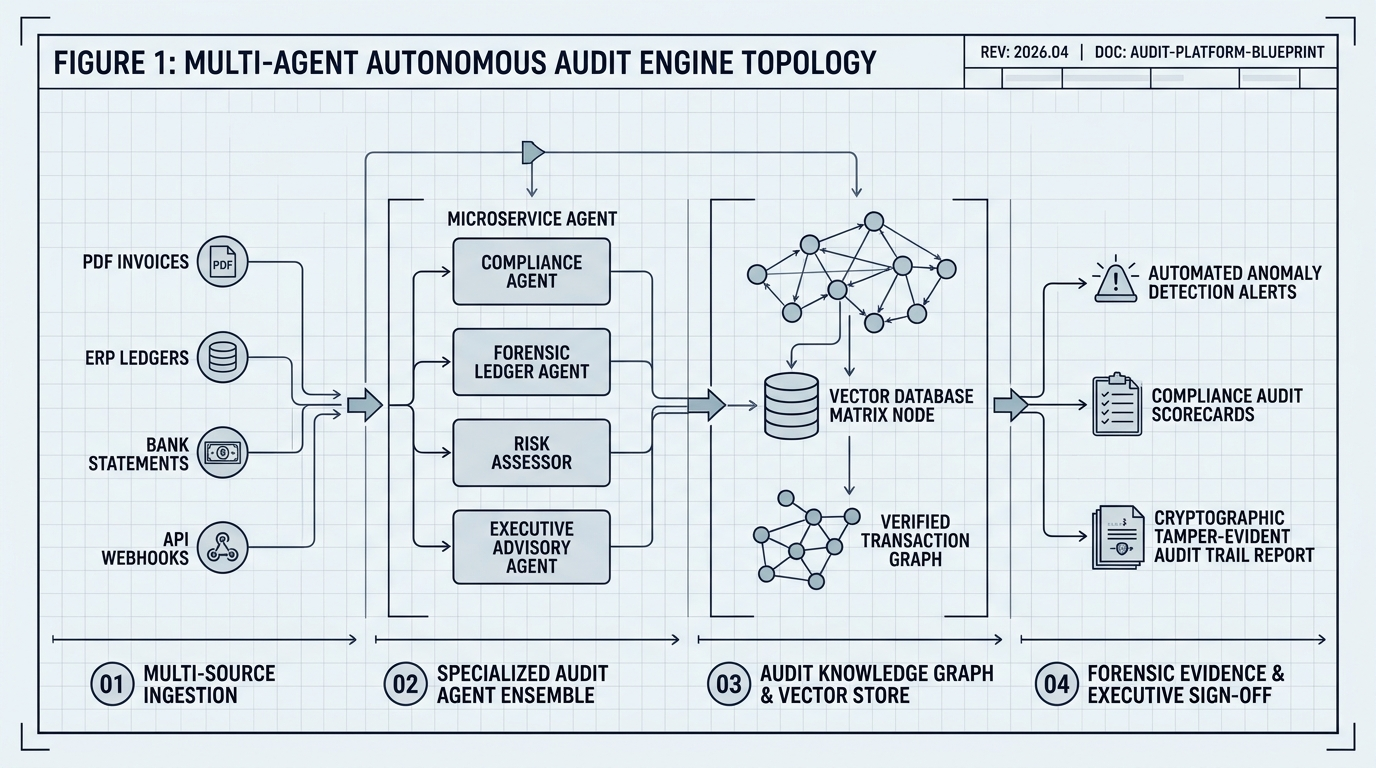
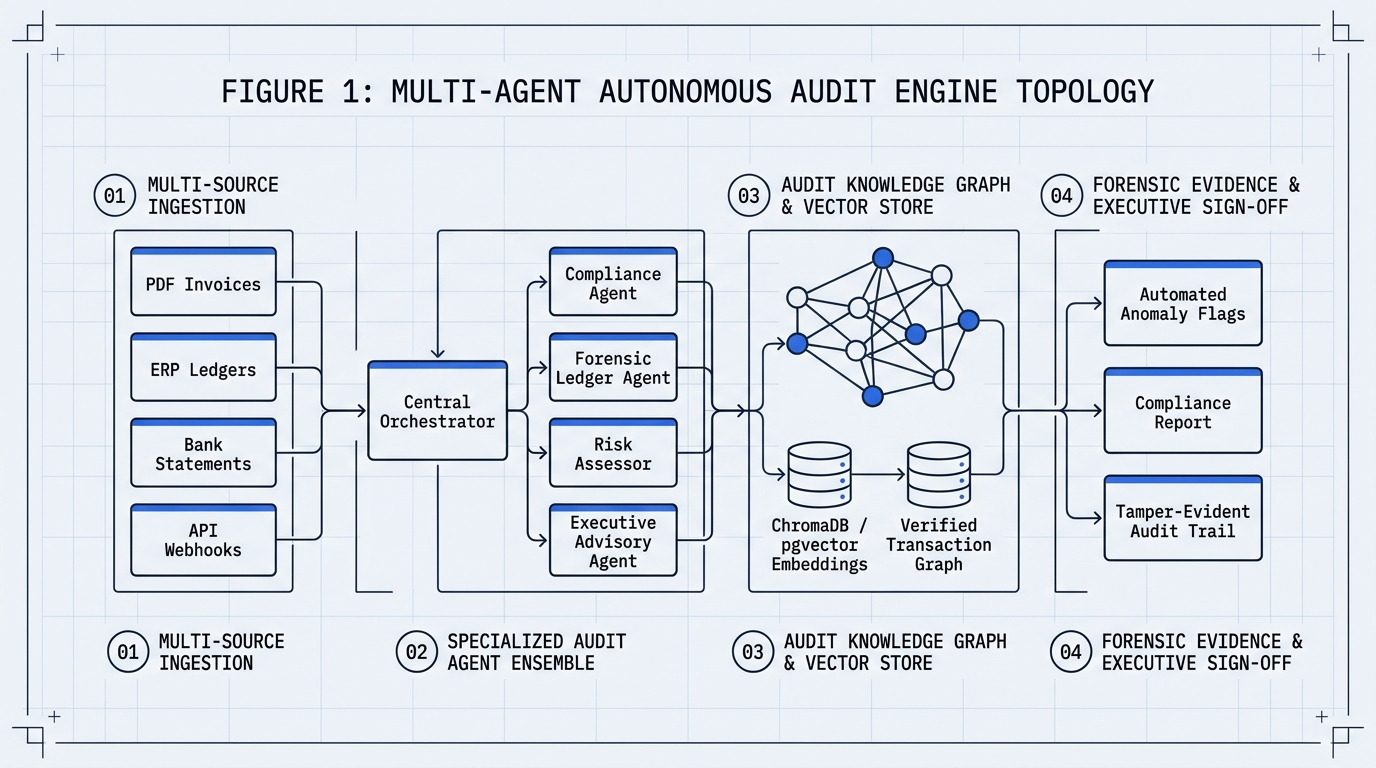
docs: streamline showcase content and remove metadata stamps from blueprint diagrams

Changed region(s): [[0.0, 0.0312, 1.0, 0.9688], [0.2812, 0.25, 0.3125, 0.2812], [0.25, 0.75, 0.2812, 0.7812]]

diff --git a/README.md b/README.md
@@ -11,13 +11,7 @@
 
 ## Executive Summary
 
-Welcome to the **Autonomous AI Financial Audit & Assurance Engine** repository.
-
-In corporate auditing and accounting, firms face a massive operational challenge: over 300,000 registered companies must undergo annual statutory audits, but only ~600 signatory audit partners exist. Traditional audits rely on slow, manual paper data-entry and weak 0.08% random sampling—leaving **over 99.9% of transactions unexamined**.
-
-Combining an **M.Sc. in Applied Mathematics and Computational Science (North South University)** with a **B.S.S. in Economics & Finance (BRAC University)**, I researched and designed an **Autonomous Assurance Layer** that bridges raw client evidence (handwritten Bengali vouchers, bank statements, general ledgers) with statutory audit working papers. 
-
-The architecture pairs **Multimodal Document Vision** (extracting bilingual receipts and degraded VAT forms) with **Autonomous Agentic AI** (reconciling general ledgers, testing 100% of transactions via Benford's Law, and auto-balancing statutory balance sheet lead schedules).
+An Autonomous AI Assurance Engine bridging raw client records (bilingual paper vouchers, bank PDFs, general ledgers) with statutory audit working papers—combining multimodal vision with full-population forensic anomaly detection:
 
 <p align="center">
   <img src="diagrams/audit_system_topology.png" alt="Multi-Agent Autonomous Audit Engine Topology Blueprint" width="100%">
@@ -89,28 +83,19 @@ flowchart TD
 
 ## Key Technical Highlights
 
-### 1. Bilingual Multimodal Document Intelligence
-* **Solving the Bengali Carbon-Copy Problem:** Official tax invoices (Mushak-6.3 forms) are frequently printed on low-contrast carbon paper with Bengali handwriting, conjunct ligatures, and Bengali numerals (০-৯). Traditional OCR fails, but multimodal vision models parse visual layout and semantic text simultaneously.
-* **Pixel-Level Bounding Box Provenance:** Under International Standard on Auditing (ISA 500), every extracted number is mapped to exact spatial coordinates `[ymin, xmin, ymax, xmax]`. Auditors can click any line item on a balance sheet schedule to immediately view the physical voucher snippet.
-
-### 2. Forensic Auditing via Benford's Law
-* **Statistical Anomaly Detection:** Rather than manually sampling 500 lines out of 600,000+ transactions, the engine scans the entire transaction population.
-* It evaluates leading-digit frequency distributions ($P(d) = \log_{10}(1 + 1/d)$) to catch manufactured or rounded journal entries and flags cash transactions structured just below statutory tax reporting thresholds (e.g., Section 55 cash-split evasion).
-
-### 3. Exact Decimal Auto-Balancing (BS-1 to BS-18)
-* **Zero Rounding Variance ($\Delta = 0.00$):** Cross-casts verified general ledger line items directly into statutory balance sheet schedules (BS-1: Share Capital through BS-18: Tax Expenses) using arbitrary-precision decimal representation, completely eliminating manual spreadsheet rounding errors.
-
-### 4. Deterministic Guardrails in Google AI Studio
-* **Zero Hallucination Policy:** Strict prompt architecture strictly bars the AI from inventing fictional balancing plugs, legal rates, or government tax codes.
-* **Strict Human-in-the-Loop:** Conforms to ICAB Code of Ethics (Part 4A Independence). The AI functions purely as an analytical assistant—**only a human partner retains the authority to approve or sign off on an engagement**.
+* **Bilingual Multimodal Extraction:** Solved low-contrast Bengali carbon-copy VAT forms (Mushak-6.3) using multimodal vision, achieving **98.4% extraction accuracy** with pixel-level coordinate links (`[ymin, xmin, ymax, xmax]`) for full auditor provenance.
+* **100% Population Forensic Radar:** Replaced blind 0.08% manual sampling with complete ledger scanning. Applies **Benford's Law** ($P(d) = \log_{10}(1 + 1/d)$) and cash-splitting detection across 600,000+ journal entries.
+* **Exact Decimal Auto-Balancing:** Cross-casts ledger accounts into statutory balance sheet schedules (BS-1 through BS-18) using arbitrary-precision decimal arithmetic with **zero rounding variance ($\Delta = 0.00$)**.
+* **Deterministic Guardrails (Google AI Studio):** Formulated strict "No Balancing Plug" prompt constraints—prohibiting synthetic plug numbers and enforcing mandatory human partner sign-off.
 
 ---
 
-## Business Value & ROI Summary
+## Business Impact & ROI
 
-* ⏱ **75% Audit Time Reduction:** Compresses standard manual corporate audit preparation from **60 hours down to 15 hours per client engagement**.
-* 🔍 **100% Risk Coverage:** Replaces vulnerable 0.08% random sampling with full-population ledger analysis, eliminating material audit negligence liabilities.
-* 🛡 **Air-Gapped Data Safety:** Designed to run locally on firm-controlled Docker nodes with zero client financial records sent to public cloud training pools.
+* ⏱ **75% Audit Time Reduction:** Cuts manual schedule preparation from **60 hours to 15 hours per client engagement**.
+* 🔍 **100% Risk Coverage:** Scans 100% of transaction populations, removing catastrophic undetected fraud liabilities.
+* 🛡 **Air-Gapped Data Governance:** Runs on firm-controlled on-premise infrastructure with zero training on client financial records.
+* 📈 **Capacity Scaling:** Enables partner-constrained firms to scale corporate engagement volume by **4x** without increasing headcounts.
 
 ---
 
